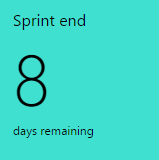
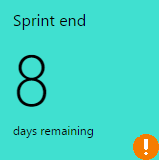
Added deprecation notice

Changed region(s): [[0.8302, 0.8125, 1.0, 1.0]]

diff --git a/CountdownWidget/CountdownWidget/static/countdownconfiguration.html b/CountdownWidget/CountdownWidget/static/countdownconfiguration.html
@@ -22,6 +22,10 @@
 </head>
 <body>
     <div class="container">
+        <div class="deprecation-warning">
+            <img src="img/warning-icon-png-16.jpg" alt="warning-icon" class="warning-icon-configuration warning-icon" />
+            Countdown Widget has moved to a new Publisher. For more information on upgrading, please click <a href="https://www.almdevopsrangers.org/upgrading-countdown-widget/">here.</a>
+        </div>
         <div id="foreground-colorpicker" class="foreground-picker">
             <fieldset>
                 <label class="config-label">Foreground color</label>

diff --git a/CountdownWidget/CountdownWidget/static/countdown.html b/CountdownWidget/CountdownWidget/static/countdown.html
@@ -20,6 +20,9 @@
 </head>
 <body class="countdown">
     <div class="container">
+        <div class="warning-icon-widget">
+            <img src="img/warning-icon-png-16.jpg" alt="warning-icon" class="warning-icon" />
+        </div>
         <div id="countdown-title" class="title header">Final Countdown</div>
         <div id="countdown-container" class="countdown-number header"></div>
         <div id="countdown-bottom-container">days remaining</div>

diff --git a/CountdownWidget/CountdownWidget/static/css/app.css b/CountdownWidget/CountdownWidget/static/css/app.css
@@ -82,3 +82,25 @@
 .spacer-top {
     margin-top: 25px;
 }
+
+.deprecation-warning {
+    margin-bottom: 10px;
+    padding: 5px;
+    background-color: #ffbb33;
+}
+
+.warning-icon {
+    width: 32px; 
+    height: 32px; 
+}
+
+.warning-icon-configuration {
+    margin-right: 10px;
+    float: left;
+}
+
+.warning-icon-widget {
+    position: absolute;
+    bottom: 4px;
+    right: 7px;
+}
